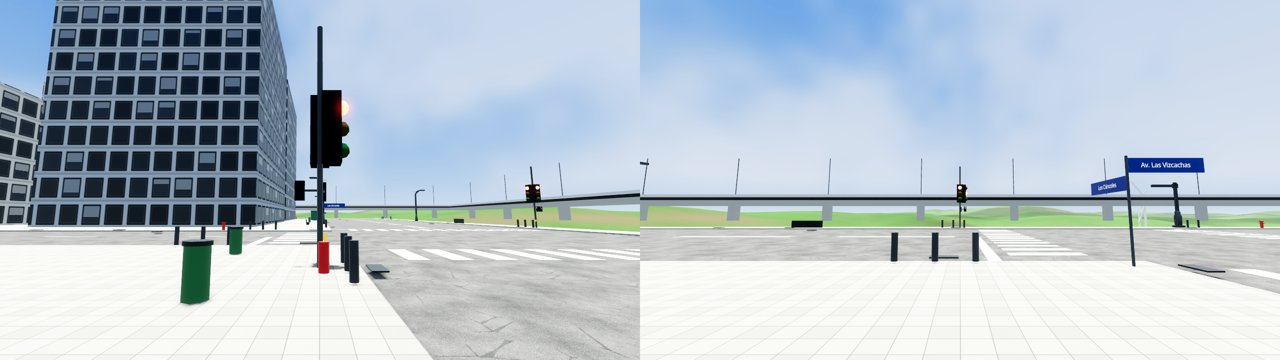
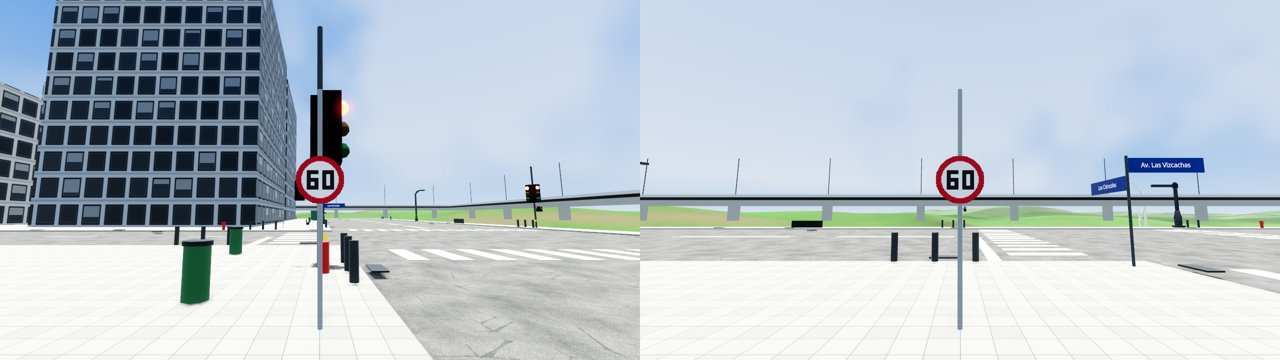
Captura de las señales de velocidad; fila M-199 cerrada
Claude-Session: https://claude.ai/code/session_015HWWmo9PWZavoEcwL8dfWu

diff --git a/docs/PLAN_DEL_LUNES.md b/docs/PLAN_DEL_LUNES.md
@@ -710,7 +710,6 @@ Prioridad P0–P3 · estado · qué falta. Reverificar la fila antes de construi
 | M-196 | P2 | PENDIENTE | Botes sin sonido/estela | sin estela de botes |
 | M-197 | P2 | PENDIENTE | Autopista sin peajes ni estaciones | sin peajes |
 | M-198 | P2 | PARCIAL | Viajes: estación de tren y aeropuerto | 28-10: Estación Central con andén y trenes (`visor/estacion_central.gd`); sin viajes ni aeropuerto |
-| M-199 | P2 | PARCIAL | Sin señales de tráfico reales (límites, ceda) | 27-10: multa de 90 € por semáforo en rojo con policía a la vista; sin límites de velocidad |
 | M-203 | P2 | PENDIENTE | Sin colisión/oclusión de sonido en interiores | sin filtro de sonido en interiores |
 | M-204 | P2 | PENDIENTE | LOD de edificios lejanos con ventanas (cristal) pero sin siluetas… | sin impostores de edificios |
 | M-205 | P2 | PARCIAL | `ciudad_expansion.gd` 2.321 líneas y `city_builder.gd` 4.687 | `ciudad_expansion.gd` creció a 3.569 líneas (28-10: ya en capas de <450 líneas; queda repartir por responsabilidad) |
@@ -2202,3 +2201,4 @@ Exportar e importar la partida (fila 30 de la propuesta, §10 «Guardado en la n
 - (2-11) Sesión 3, cola del lunes. HECHO: peatones NPC que cruzan avenidas con su fase peatonal (`PeatonesCruce`, 24 cruces, test `p6_peatones_cruce`; `TraficoCiudad` usa `Semaforos.peatonal` para peatones), rotonda con 3 coches en su carril circular (`CiudadRotonda.trafico`), el DT sube al bus Red junto al paradero (E, paga 1 € de la tarjeta, baja 3 paradas después: `BusDT`, test `p6_bus_dt`) y la app Red muestra el saldo, velocidad de peatones = base × prisa de la hora × prisa de la lluvia (`RutinaPeatones.poner_factor`), PA1002 en su sector (el sector del código sale de DONDE queda el paradero), `BanderasGrada` conectada a `FestejoGrada` en el gol (captura `banderas_grada.jpg`), teleférico: estación de arriba con su rampa y su gente, llegadas de las dos cabinas y viajeros que cambian dentro (`PasajerosTeleferico.cambiar_viajeros`), prólogo con túnel, utilería, sala de vídeo y comedor (el personal saluda: `PrologoDT._saludan`), gesto del DT según el tono en la presentación (`PrologoPasos.GESTO_TONO`), entrevista de contratación de 3 preguntas (`Citas.RONDAS`; falta la versión para el staff), rama con «visibilidad» (ceder el estadio) y celebración de sus títulos (`Citas`, `Hinchada.visibilidad_rama`), M-187 casas con horario (`HabitantesCasa`), M-180 vendedor del andén. Pasada visual en el partido: peinados del Drive y postura en los futbolistas (`player_spawner_p1`, apagable con `SIN_PELO_DRIVE=1` / `SIN_POSTURA=1`); mochilas no (no tienen sentido en el campo). PENDIENTE: pelo femenino (los 5 candidatos se descartaron; hace falta elegir otros del OBJ), hoja `capturas_personajes/pelo_postura_partido_antes_despues.jpg` (arriba antes, abajo después; en la cámara de TV no se distingue y el plano cercano es poco concluyente porque los jugadores se mueven entre una y otra pasada: falta una toma con el balón parado y el veredicto del dueño), música del metro.
 
 - (2-11) Pelo femenino del Drive: probados otros 12 peinados sobre el cuerpo femenino (hoja `capturas_personajes/pelo_mujer_drive_candidatas_2.jpg`); NINGUNO mejora el corte de Quaternius (láminas con huecos, flequillos que tapan los ojos, el moño parece casco). `PeloDrive.MUJERES` sigue vacío; hace falta otro pack de pelo femenino o modelarlo a mano. Los 24 índices ya probados: 18, 25, 28, 33, 36, 38, 44, 49, 53, 55, 57, 59, 60, 61, 63, 65, 68, 69, 76, 78, 81, 83, 84, 85, 90, 92, 108, 111, 112, 115, 117.
+- (2-11) M-199 señales de límite de velocidad (`SenalesVelocidad`, 164 en los cruces, 40/50/60 por sector, captura `capturas_ciudad_c2/senales_velocidad.jpg`) y multa de 60 € por pasar 20 km/h con la policía a la vista; M-170 el peatón NPC pulsa el botón del cruce (una vez cada 25 s en todo el mapa). LECCIONES: un `visibility_range_end` en un MultiMeshInstance3D se mide desde el ORIGEN del nodo (oculta lo lejano); `CiudadExpansion` es RefCounted (colgar de `ex.b`); mirar siempre las últimas líneas del banco por SCRIPT ERROR.
